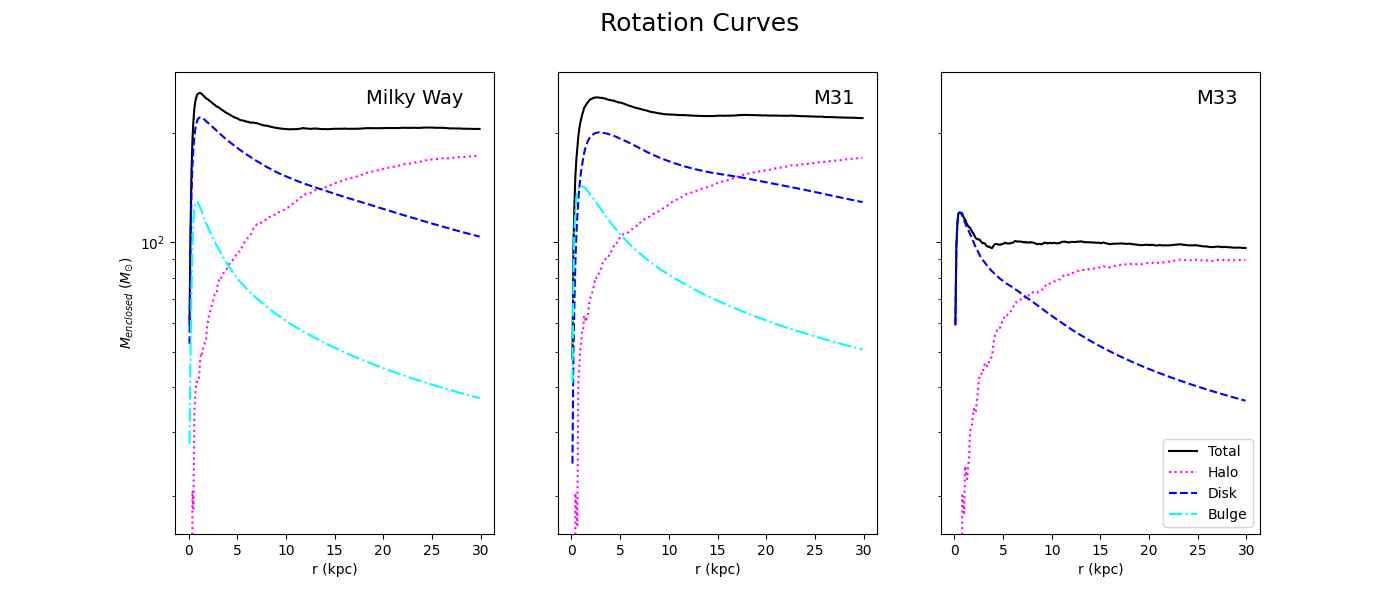
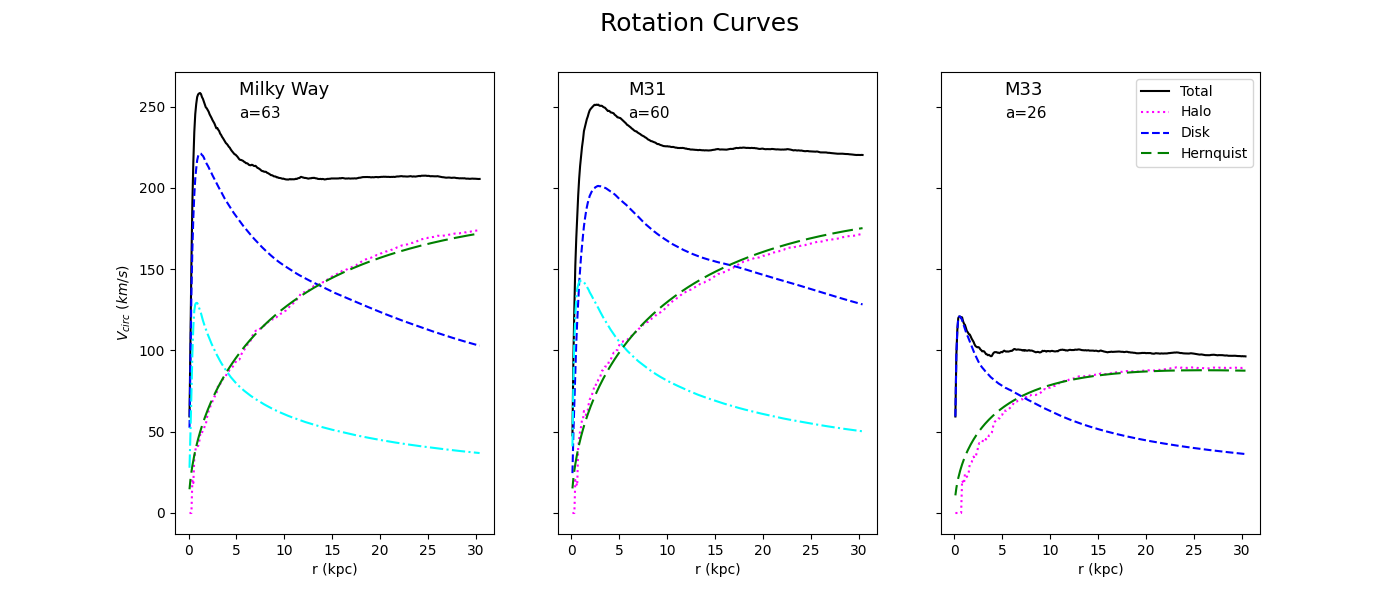
Completed HW5

diff --git a/Homeworks/Homework5/MassProfile.py b/Homeworks/Homework5/MassProfile.py
@@ -101,7 +101,7 @@ class MassProfile:
         totMass = Enclosed1 + Enclosed2 + Enclosed3
         return totMass
 
-    def HernquistMass(self, r, a, Mhalo): # TODO
+    def HernquistMass(self, r, a, Mhalo):
         '''
         Computes the mass enclosed within a given radius using a theoretical
         Hernquist Profile:
@@ -127,15 +127,16 @@ class MassProfile:
         # return integration[0]*u.Msun
         return M*u.Msun
     
-    def HernquistVCirc(self, r, a, Mhalo):# TODO
+    def HernquistVCirc(self, r, a, Mhalo):
         '''
         Computes the Circular Speed at a given radius using a Hernquist
         profile for the galaxy.
+        The velocity is determined by the Newtonian v = sqrt(GM/r)
         Parameters:
             r: (float or Array of floats) The radii to compute the
                circular speed at. Assumed to be in kpc
-            a: (float) The Hernquist scale height
-            Mhalo: (float) The dark matter halo mass of the galaxy
+            a: (float) The Hernquist scale height in kpc
+            Mhalo: (float) The dark matter halo mass of the galaxy in Msun
         Returns:
             speeds: (Astropy Quantity or Array of Astropy Quantities)
                     The circular speeds at the given radii in km/s.
@@ -143,8 +144,9 @@ class MassProfile:
                     r is a float, or an array of Astropy Quantities if the
                     input was an array of floats.
         '''
-        mass = (Mhalo*(r**2))/((a+r)**2)
-        return
+        mass = self.HernquistMass(r, a, Mhalo)
+        Grav = G.to(u.kpc*u.km**2/u.s**2/u.Msun)
+        return np.sqrt(Grav*mass/r)
 
     def CircularVelocity(self, prtclType, r):
         '''
@@ -198,7 +200,6 @@ def massPlots(test_r):
     # MW
     MW = MassProfile("MW", 0)
     MWhaloProfile = MW.MassEnclosed(1, test_r)
-    print(MWhaloProfile)
     MWdiskProfile = MW.MassEnclosed(2, test_r)
     MWBulgeProfile = MW.MassEnclosed(3, test_r)
     MWtotProfile = MW.MassEnclosedTotal(test_r)
@@ -261,58 +262,77 @@ def massPlots(test_r):
 
 def velocityPlots(test_r):
     fig, ax = plt.subplots(1, 3, sharey=True, figsize = (14, 6))
+
+    # Scale Heights
+    MWa = 63
+    M31a = 60
+    M33a = 26
+
     # MW
     MW = MassProfile("MW", 0)
     MWhaloProfile = MW.CircularVelocity(1, test_r)
     MWdiskProfile = MW.CircularVelocity(2, test_r)
     MWBulgeProfile = MW.CircularVelocity(3, test_r)
     MWtotProfile = MW.CircularVelocityTotal(test_r)
+
+    MWdarkMatterIndex = np.where(MW.data["type"] == 1)[0]
+    MWHernquist = np.array([MW.HernquistVCirc(radius, MWa, np.sum(MW.data["m"][MWdarkMatterIndex])*1e10).value for radius in test_r])*u.km/u.s
+    
     # M31
     M31 = MassProfile("M31", 0)
     M31haloProfile = M31.CircularVelocity(1, test_r)
     M31diskProfile = M31.CircularVelocity(2, test_r)
     M31BulgeProfile = M31.CircularVelocity(3, test_r)
     M31totProfile = M31.CircularVelocityTotal(test_r)
+
+    M31darkMatterIndex = np.where(M31.data["type"] == 1)[0]
+    M31Hernquist = np.array([M31.HernquistVCirc(radius, M31a, np.sum(M31.data["m"][M31darkMatterIndex])*1e10).value for radius in test_r])*u.km/u.s    
     # M33
     M33 = MassProfile("M33", 0)
     M33haloProfile = M33.CircularVelocity(1, test_r)
     M33diskProfile = M33.CircularVelocity(2, test_r)
     M33BulgeProfile = M33.CircularVelocity(3, test_r)
     M33totProfile = M33.CircularVelocityTotal(test_r)
+
+    M33darkMatterIndex = np.where(M33.data["type"] == 1)[0]
+    M33Hernquist = np.array([M33.HernquistVCirc(radius, M33a, np.sum(M33.data["m"][M33darkMatterIndex])*1e10).value for radius in test_r])*u.km/u.s
     # MW
-    ax[0].semilogy(test_r, MWtotProfile, color="k", label="Total")
-    ax[0].semilogy(test_r, MWhaloProfile, linestyle="dotted", color="magenta", label="Halo")
-    ax[0].semilogy(test_r, MWdiskProfile, linestyle="--", color="blue", label="Disk")
-    ax[0].semilogy(test_r, MWBulgeProfile, linestyle="dashdot", color="cyan", label="Bulge")
+    ax[0].plot(test_r, MWtotProfile, color="k", label="Total")
+    ax[0].plot(test_r, MWhaloProfile, linestyle="dotted", color="magenta", label="Halo")
+    ax[0].plot(test_r, MWdiskProfile, linestyle="--", color="blue", label="Disk")
+    ax[0].plot(test_r, MWBulgeProfile, linestyle="dashdot", color="cyan", label="Bulge")
+    ax[0].plot(test_r, MWHernquist, linestyle=(5, (10, 3)), color="green", label="Hernquist")
     # M31
-    ax[1].semilogy(test_r, M31totProfile, color="k", label="Total")
-    ax[1].semilogy(test_r, M31haloProfile, linestyle="dotted", color="magenta", label="Halo")
-    ax[1].semilogy(test_r, M31diskProfile, linestyle="--", color="blue", label="Disk")
-    ax[1].semilogy(test_r, M31BulgeProfile, linestyle="dashdot", color="cyan", label="Bulge")
+    ax[1].plot(test_r, M31totProfile, color="k", label="Total")
+    ax[1].plot(test_r, M31haloProfile, linestyle="dotted", color="magenta", label="Halo")
+    ax[1].plot(test_r, M31diskProfile, linestyle="--", color="blue", label="Disk")
+    ax[1].plot(test_r, M31BulgeProfile, linestyle="dashdot", color="cyan", label="Bulge")
+    ax[1].plot(test_r, M31Hernquist, linestyle=(5, (10, 3)), color="green", label="Hernquist")
     # M33
-    ax[2].semilogy(test_r, M33totProfile, color="k", label="Total")
-    ax[2].semilogy(test_r, M33haloProfile, linestyle="dotted", color="magenta", label="Halo")
-    ax[2].semilogy(test_r, M33diskProfile, linestyle="--", color="blue", label="Disk")
-    ax[2].semilogy(test_r, M33BulgeProfile, linestyle="dashdot", color="cyan", label="Bulge")
+    ax[2].plot(test_r, M33totProfile, color="k", label="Total")
+    ax[2].plot(test_r, M33haloProfile, linestyle="dotted", color="magenta", label="Halo")
+    ax[2].plot(test_r, M33diskProfile, linestyle="--", color="blue", label="Disk")
+    #ax[2].plot(test_r, M33BulgeProfile, linestyle="dashdot", color="cyan", label="Bulge") Don't plot bc it is 0
+    ax[2].plot(test_r, M33Hernquist, linestyle=(5, (10, 3)), color="green", label="Hernquist")
     # Plot labels
     ax[0].set_xlabel("r (kpc)")
     ax[1].set_xlabel("r (kpc)")
     ax[2].set_xlabel("r (kpc)")
-    ax[0].set_ylabel(r"$M_{enclosed}$ ($M_{\odot}$)")
-    ax[0].text(0.6, 0.93, "Milky Way", transform=ax[0].transAxes, size=14)
-    ax[1].text(0.8, 0.93, "M31", transform=ax[1].transAxes, size=14)
-    ax[2].text(0.8, 0.93, "M33", transform=ax[2].transAxes, size=14)
+    ax[0].set_ylabel(r"$V_{circ}$ ($km/s$)")
+    ax[0].text(0.2, 0.95, "Milky Way", transform=ax[0].transAxes, size=13)
+    ax[0].text(0.2, 0.9, f"a={MWa}", transform=ax[0].transAxes, size=11)
+    ax[1].text(0.22, 0.95, "M31", transform=ax[1].transAxes, size=13)
+    ax[1].text(0.22, 0.9, f"a={M31a}", transform=ax[1].transAxes, size=11)
+    ax[2].text(0.2, 0.95, "M33", transform=ax[2].transAxes, size=13)
+    ax[2].text(0.2, 0.9, f"a={M33a}", transform=ax[2].transAxes, size=11)
     fig.suptitle("Rotation Curves", size=18)
-    ax[2].legend(loc="lower right")
+    ax[2].legend(loc="upper right")
     plt.show()
 
-
-    return
-
 if __name__ == "__main__":
-    test_r = np.arange(0.25, 30.5, step=1.5)
-    massPlots(test_r)
-    #velocityPlots(test_r)
+    test_r = np.arange(0.1, 30.5, step=0.1)
+    #massPlots(test_r)
+    velocityPlots(test_r)
     
     
 
